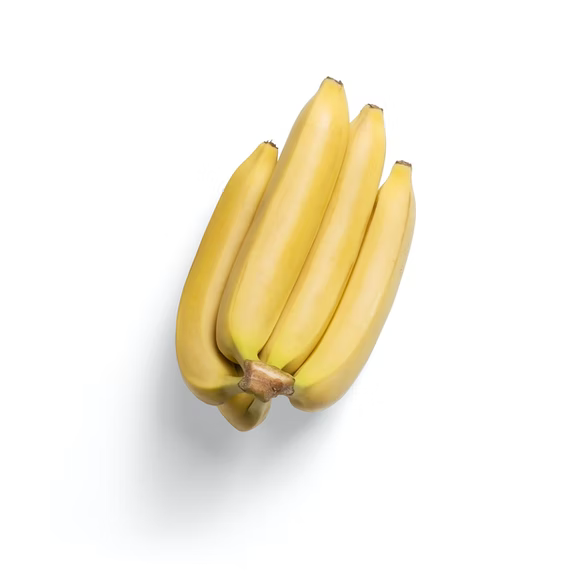
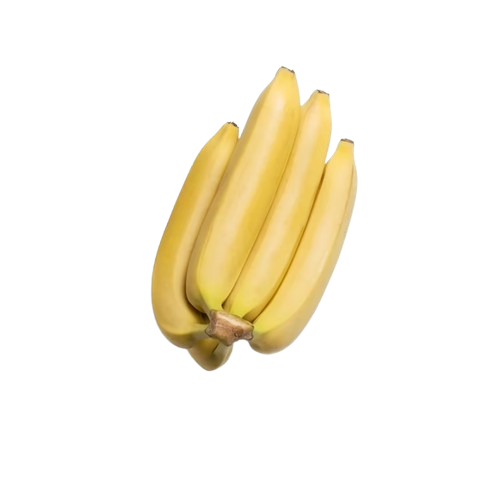
feat: add the third section

diff --git a/homepage.html b/homepage.html
@@ -89,15 +89,15 @@
             
             <!-- Товар 1 -->
             <div class="prod-card">
+                <span class="prod-tag">Vegetable</span>
                 <div class="prod-image-wrapper">
-                    <span class="prod-tag">Vegetable</span>
-                    <img src="pictures/BroccoliPhoto.jpg" alt="Broccoli">
+                    <img src="pictures/BroccoliPhoto.png" alt="Broccoli">
                 </div>
                 <div class="prod-info">
                     <h3 class="prod-name">Calabrese Broccoli</h3>
                     <div class="prod-price-row">
                         <span class="prod-price-old">$20.00</span>
-                        <span class="prod-price-new">$14.00</span>
+                        <span class="prod-price-new">$13.00</span>
                         <div class="prod-stars">
                             <img src="pictures/star.svg" alt="star">
 
@@ -106,9 +106,9 @@
                 </div>
             </div>
 
-            <div class="prod-card">
+             <div class="prod-card">
+                <span class="prod-tag">Fresh</span>
                 <div class="prod-image-wrapper">
-                    <span class="prod-tag">Fresh</span>
                     <img src="pictures/banana.png" alt="Banana">
                 </div>
                 <div class="prod-info">
@@ -118,14 +118,15 @@
                         <span class="prod-price-new">$14.00</span>
                         <div class="prod-stars">
                             <img src="pictures/star.svg" alt="star">
+
                         </div>
                     </div>
                 </div>
             </div>
 
-            <div class="prod-card">
+             <div class="prod-card">
+                <span class="prod-tag">Millets</span>
                 <div class="prod-image-wrapper">
-                    <span class="prod-tag">Millets</span>
                     <img src="pictures/nuts.png" alt="Nuts">
                 </div>
                 <div class="prod-info">
@@ -135,15 +136,15 @@
                         <span class="prod-price-new">$15.00</span>
                         <div class="prod-stars">
                             <img src="pictures/star.svg" alt="star">
+
                         </div>
                     </div>
                 </div>
             </div>
-
             <!-- Товар 4 -->
             <div class="prod-card">
+                <span class="prod-tag">Vegetable</span>
                 <div class="prod-image-wrapper">
-                    <span class="prod-tag">Vegetable</span>
                     <img src="pictures/tomato.png" alt="Tomato">
                 </div>
                 <div class="prod-info">
@@ -153,6 +154,7 @@
                         <span class="prod-price-new">$17.00</span>
                         <div class="prod-stars">
                             <img src="pictures/star.svg" alt="star">
+
                         </div>
                     </div>
                 </div>
@@ -160,9 +162,9 @@
 
             <!-- Товар 5 -->
             <div class="prod-card">
+                <span class="prod-tag">Health</span>
                 <div class="prod-image-wrapper">
-                    <span class="prod-tag">Health</span>
-                    <img src="https://images.unsplash.com/photo-1567306226416-28f0efdc88ce?ixlib=rb-1.2.1&auto=format&fit=crop&w=500&q=80" alt="Mung Bean">
+                    <img src="pictures/bean.png" alt="Bean">
                 </div>
                 <div class="prod-info">
                     <h3 class="prod-name">Mung Bean</h3>
@@ -171,10 +173,7 @@
                         <span class="prod-price-new">$11.00</span>
                         <div class="prod-stars">
                             <img src="pictures/star.svg" alt="star">
-                            <img src="pictures/star.svg" alt="star">
-                            <img src="pictures/star.svg" alt="star">
-                            <img src="pictures/star.svg" alt="star">
-                            <img src="pictures/star.svg" alt="star">
+
                         </div>
                     </div>
                 </div>
@@ -182,9 +181,9 @@
 
             <!-- Товар 6 -->
             <div class="prod-card">
+                <span class="prod-tag">Nuts</span>
                 <div class="prod-image-wrapper">
-                    <span class="prod-tag">Nuts</span>
-                    <img src="https://images.unsplash.com/photo-1596910547037-846b134092c2?ixlib=rb-1.2.1&auto=format&fit=crop&w=500&q=80" alt="Hazelnut">
+                    <img src="pictures/hazelnut.png" alt="Nuts">
                 </div>
                 <div class="prod-info">
                     <h3 class="prod-name">Brown Hazelnut</h3>
@@ -193,20 +192,18 @@
                         <span class="prod-price-new">$12.00</span>
                         <div class="prod-stars">
                             <img src="pictures/star.svg" alt="star">
-                            <img src="pictures/star.svg" alt="star">
-                            <img src="pictures/star.svg" alt="star">
-                            <img src="pictures/star.svg" alt="star">
-                            <img src="pictures/star.svg" alt="star">
+
                         </div>
                     </div>
                 </div>
             </div>
 
+
             <!-- Товар 7 -->
             <div class="prod-card">
+                <span class="prod-tag">Fresh</span>
                 <div class="prod-image-wrapper">
-                    <span class="prod-tag">Fresh</span>
-                    <img src="https://images.unsplash.com/photo-1569288063643-5d29ad54d707?ixlib=rb-1.2.1&auto=format&fit=crop&w=500&q=80" alt="Eggs">
+                    <img src="pictures/eggs.png" alt="Eggs">
                 </div>
                 <div class="prod-info">
                     <h3 class="prod-name">Eggs</h3>
@@ -215,20 +212,17 @@
                         <span class="prod-price-new">$17.00</span>
                         <div class="prod-stars">
                             <img src="pictures/star.svg" alt="star">
-                            <img src="pictures/star.svg" alt="star">
-                            <img src="pictures/star.svg" alt="star">
-                            <img src="pictures/star.svg" alt="star">
-                            <img src="pictures/star.svg" alt="star">
+
                         </div>
                     </div>
                 </div>
             </div>
 
             <!-- Товар 8 -->
-            <div class="prod-card">
+                       <div class="prod-card">
+                <span class="prod-tag">Fresh</span>
                 <div class="prod-image-wrapper">
-                    <span class="prod-tag">Fresh</span>
-                    <img src="https://images.unsplash.com/photo-1600093463592-8e36ae95ef56?ixlib=rb-1.2.1&auto=format&fit=crop&w=500&q=80" alt="Rusk">
+                    <img src="pictures/bread.png" alt="Bread">
                 </div>
                 <div class="prod-info">
                     <h3 class="prod-name">Zelco Suji Elaichi Rusk</h3>
@@ -237,16 +231,11 @@
                         <span class="prod-price-new">$15.00</span>
                         <div class="prod-stars">
                             <img src="pictures/star.svg" alt="star">
-                            <img src="pictures/star.svg" alt="star">
-                            <img src="pictures/star.svg" alt="star">
-                            <img src="pictures/star.svg" alt="star">
-                            <img src="pictures/star.svg" alt="star">
+
                         </div>
                     </div>
                 </div>
             </div>
-
-        </div>
 
         <!-- Кнопка "Load More" -->
         <div class="prod-load-more-wrapper">

diff --git a/style.css b/style.css
@@ -303,75 +303,70 @@ body {
 .prod-grid {
     display: grid;
     grid-template-columns: repeat(4, 1fr); /* 4 колонки */
-    gap: 30px; /* Отступы между карточками */
+    gap: 20px; /* Отступы между карточками */
     margin-bottom: 60px;
     margin-top: 210px;
 }
 
 /* --- Карточка товара --- */
+/* 1. Сама карточка */
 .prod-card {
-    background-color: #ffffff;
-    border: 1px solid #f0f0f0; /* Легкая рамка по умолчанию */
-    border-radius: 20px;
-    padding: 20px;
-    text-align: left;
-    transition: all 0.3s ease;
-    position: relative;
+    display: flex;
+    flex-direction: column;
     overflow: hidden;
-    width: 335.23px;
-    height: 324px;
+    align-items: self-start;
+    width: 335px; /* Фиксируем ширину, чтобы сетка была ровной */
+    background-color: #F9F8F8;
+    border: 1px solid #f0f0f0;
+    border-radius: 20px;
+    transition: all 0.3s ease;
 }
 
-
-/* Эффект при наведении (как выделенная карточка на макете) */
 .prod-card:hover {
+    box-shadow: 0 10px 30px rgba(0,0,0,0.08);
     border-color: #669C61;
-    box-shadow: 0 10px 30px rgba(0, 0, 0, 0.08);
-    transform: translateY(-5px);
 }
 
+/* 2. Тег "Vegetable" */
+.prod-tag {
+    width: fit-content;
+    background-color: #1F263E;
+    color: #ffffff;
+    font-size: 15px;
+    font-weight: 600;
+    margin-top: 12px;
+    margin-left: 23px;
+    padding: 6px 14px;
+    border-radius: 8px;
+    z-index: 2; /* Чтобы был поверх картинки */
+}
+
+/* 3. Контейнер для картинки (ГЛАВНОЕ ИСПРАВЛЕНИЕ) */
 .prod-image-wrapper {
-    display: inline-block;
-    /* Было 200px или 280px. Ставим больше, чтобы брокколи влезла */
-    height: 330px; 
-    width: 380px;
+    width: 335px;
+    height: 280px; /* Увеличиваем высоту зоны картинки */
     display: flex;
     align-items: center;
     justify-content: center;
-    margin-bottom: 15px; /* Чуть уменьшил отступ снизу */
-    background-color: #f8f9fa; /* Фон подложки */
-    border-radius: 15px;
-    margin-left: -50px;
+    margin-top: 40px;
+    margin-bottom: 18px;
+    background-color: #f8f9fa;
 }
 
-/* 2. Увеличиваем саму картинку */
+/* 4. Сама картинка */
 .prod-image-wrapper img {
-    /* Разрешаем картинке занимать почти всю ширину */
-    max-width: 85%; 
-    max-height: 85%;
-    
-    object-fit: contain;
-    /* Если картинка всё еще мелковата, можно добавить масштаб: */
-    /* transform: scale(1.1); */ 
+    width: 100%;
+    height: 100%;
+    object-fit: cover;
 }
 
-/* Тег категории (Vegetable, Fresh и т.д.) */
-.prod-tag {
-    position: absolute;
-    top: 15px;
-    left: 15px;
-    background-color: #1F263E;
-    color: #ffffff;
-    font-size: 12px;
-    font-weight: 600;
-    padding: 6px 12px;
-    border-radius: 20px;
-    text-transform: capitalize;
-}
-
-/* Информация о товаре */
+/* 5. Информация о товаре */
 .prod-info {
-    padding: 0 5px;
+    display: flex;
+    flex-direction: column;
+    gap: 19px;
+    text-align: left; /* Выравниваем текст по левому краю */
+    padding-inline: 28px;
 }
 
 .prod-name {
@@ -379,17 +374,17 @@ body {
     font-size: 18px;
     font-weight: 600;
     color: #1F263E;
-    margin: 0 0 10px 0;
     line-height: 1.3;
-    height: 48px; /* Фиксированная высота для выравнивания */
-    overflow: hidden;
 }
 
-/* Строка с ценой и звездами */
+/* 6. Строка с ценой и звездами */
 .prod-price-row {
     display: flex;
     align-items: center;
-    gap: 10px;
+    justify-content: space-between;
+    position: relative;
+    bottom: 2px;
+    gap: 4px;
 }
 
 .prod-price-old {
@@ -402,13 +397,27 @@ body {
     font-size: 18px;
     font-weight: 700;
     color: #1F263E;
+    margin-right: 5px; /* Отступ от старой цены */
 }
 
 .prod-stars {
+    display: flex;
+    align-items: center;
+    /*gap: 3px; /* Расстояние между звездами */
     margin-left: auto; /* Прижимает звезды вправо */
-    color: #FBB947; /* Желтый цвет звезд */
-    font-size: 14px;
-    letter-spacing: 2px;
+    position: relative;
+    right: -75px;
+}
+
+.prod-stars img {
+    width: 84px; /* Размер звездочки */
+    height: auto;
+}
+
+.prod-card:nth-child(n+5) {
+    /* Подбирайте значение, пока не совпадёт с макетом */
+    transform: translateY(40px); 
+    /*transform: translateX(-5px);*/
 }
 
 /* --- Кнопка Load More --- */
